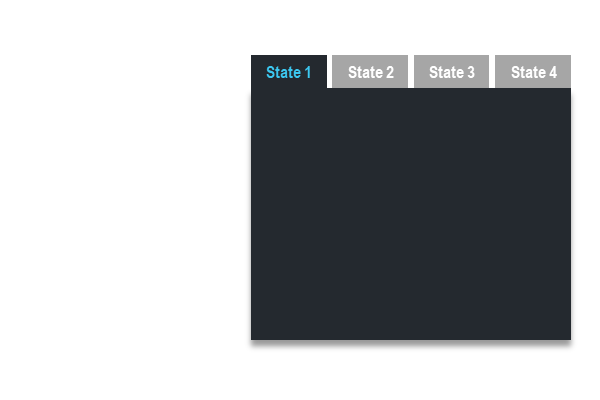
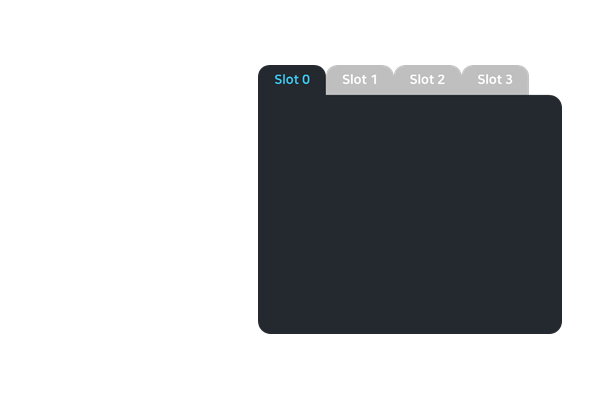
Fix

Changed region(s): [[0.39, 0.12, 0.96, 0.87]]

diff --git a/experimental/PauseMenu.py b/experimental/PauseMenu.py
@@ -45,6 +45,7 @@ PAUSE_MODE_ON = False
 
 CONTROL_VIEW = False
 MENU_INDEX = 0
+STATE_INDEX = 0
 LAYOUT_INDEX = 0
 
 event_format = 'IhBB'
@@ -507,7 +508,8 @@ def draw_picture(system, buttons):
 def start_viewer():
     if CONTROL_VIEW == True and os.path.isfile(PATH_PAUSEMENU + "images/" + sysname + "_resume.png") == True :
         os.system("echo " + PATH_PAUSEMENU + "images/" + sysname + "_resume.png > /tmp/pause.txt")
-        os.system("echo " + PATH_PAUSEMENU + "images/control/" + romname + "_layout0.png > /tmp/pause_layout.txt")
+        if os.path.isfile(PATH_PAUSEMENU + "images/control/" + romname + "_layout0.png") == True :
+            os.system("echo " + PATH_PAUSEMENU + "images/control/" + romname + "_layout0.png > /tmp/pause_layout.txt")
     else:
         os.system("echo " + PATH_PAUSEMENU + "pause_resume.png > /tmp/pause.txt")
 
@@ -548,7 +550,8 @@ def change_viewer(menu, index):
                 state_index = ".state"
             else:
                 state_index = ".state" + index
-            os.system("echo " + PATH_PAUSEMENU + "images/save/" + romname + state_index + ".png > /tmp/pause_layout.txt")
+            if os.path.isfile(PATH_PAUSEMENU + "images/save/" + romname + state_index + ".png") == True :
+                os.system("echo " + PATH_PAUSEMENU + "images/save/" + romname + state_index + ".png > /tmp/pause_layout.txt")
         else:
             os.system("echo " + PATH_PAUSEMENU + "pause_save.png > /tmp/pause.txt")
     elif menu == "LOAD":
@@ -559,6 +562,8 @@ def change_viewer(menu, index):
     elif menu == "BUTTON":
         if CONTROL_VIEW == True and os.path.isfile(PATH_PAUSEMENU + "images/" + sysname + "_button.png") == True :
             os.system("echo " + PATH_PAUSEMENU + "images/" + sysname + "_button.png > /tmp/pause.txt")
+            if os.path.isfile(PATH_PAUSEMENU + "images/control/" + romname + "_layout" + index + ".png") == True :
+                os.system("echo " + PATH_PAUSEMENU + "images/control/" + romname + "_layout" + index + ".png > /tmp/pause_layout.txt")
         else:
             os.system("echo " + PATH_PAUSEMENU + "pause_button.png > /tmp/pause.txt")
         
@@ -635,6 +640,7 @@ def send_hotkey(key, repeat):
         time.sleep(0.1)
     
     keyboard.release("1")
+    time.sleep(0.1)
     
 def save_picture(index):
     time.sleep(1)
@@ -642,7 +648,7 @@ def save_picture(index):
         pngname = "state.png"
     else:
         pngname = "state" + str(index) + "png"
-    cmd = "composite -geometry 304x224+260+95 " + \
+    cmd = "composite -geometry 260x195+282+109 " + \
           "/home/pi/RetroPie/roms/" + sysname + "/" + romname + "." + pngname + " " + \
           PATH_PAUSEMENU + "images/save/" + pngname + " " + \
           PATH_PAUSEMENU + "images/save/" + romname + "." + pngname 
@@ -650,18 +656,19 @@ def save_picture(index):
 
     now = datetime.datetime.now()
     nowDatetime = now.strftime('%Y-%m-%d %H:%M:%S')
-    font_size = 10
+    font_size = 16
     font = ImageFont.truetype('NanumBarunGothic.ttf', font_size)
-    image = Image.new('RGBA', (300, 20), (0, 0, 0, 0))
+    image = Image.new('RGBA', (256, 20), (0, 0, 0, 0))
     draw = ImageDraw.Draw(image)
+    w, h = draw.textsize(msg)
     draw.fontmode = "1"
-    draw.text((0,0), unicode(text), font=font, fill="white")
+    draw.text(((256-w)/2,(20-h)/2, unicode(text), font=font, fill="white")
     image.save(outfile)
     
 def process_event(event):
 
     global SELECT_BTN_ON, START_BTN_ON, PAUSE_MODE_ON
-    global UP_ON, DOWN_ON, MENU_INDEX, LAYOUT_INDEX
+    global UP_ON, DOWN_ON, MENU_INDEX, STATE_INDEX, LAYOUT_INDEX
     
     (js_time, js_value, js_type, js_number) = struct.unpack(event_format, event)
 
@@ -675,28 +682,32 @@ def process_event(event):
             DOWN_ON = False
             if js_value <= JS_MIN * JS_THRESH:
                 if PAUSE_MODE_ON == True:
-                    if MENU_INDEX == 1 or MENU_INDEX == 2:
-                        MENU_INDEX = 3
-                        LAYOUT_INDEX = 1
-                        change_viewer("RETURN", "0")
-                    else:
-                        if LAYOUT_INDEX == 1:
-                            LAYOUT_INDEX = layout_num
-                        else:
+                    if MENU_INDEX == 3:
+                        if STATE_INDEX > 0:
+                            STATE_INDEX = STATE_INDEX-1
+                            change_viewer("SAVE", str(LAYOUT_INDEX))
+                    if MENU_INDEX == 4:
+                        if STATE_INDEX > 0:
+                            STATE_INDEX = STATE_INDEX-1
+                            change_viewer("LOAD", str(LAYOUT_INDEX))
+                    if MENU_INDEX == 5:
+                        if LAYOUT_INDEX > 1:
                             LAYOUT_INDEX = LAYOUT_INDEX-1
-                    change_viewer("LAYOUT", str(LAYOUT_INDEX))
+                            change_viewer("BUTTON", str(LAYOUT_INDEX))
             if js_value >= JS_MAX * JS_THRESH:
                 if PAUSE_MODE_ON == True:                     
-                    if MENU_INDEX == 1 or MENU_INDEX == 2:
-                        MENU_INDEX = 3
-                        LAYOUT_INDEX = 1
-                        change_viewer("RETURN", "0")
-                    else:
-                        if LAYOUT_INDEX == layout_num:
-                            LAYOUT_INDEX = 1
-                        else:
+                    if MENU_INDEX == 3:
+                        if STATE_INDEX < 3:
+                            STATE_INDEX = STATE_INDEX+1
+                            change_viewer("SAVE", str(LAYOUT_INDEX))
+                    if MENU_INDEX == 4:
+                        if STATE_INDEX < 3:
+                            STATE_INDEX = STATE_INDEX+1
+                            change_viewer("LOAD", str(LAYOUT_INDEX))
+                    if MENU_INDEX == 5:
+                        if LAYOUT_INDEX < layout_num:
                             LAYOUT_INDEX = LAYOUT_INDEX+1
-                    change_viewer("LAYOUT", str(LAYOUT_INDEX))
+                            change_viewer("BUTTON", str(LAYOUT_INDEX))
         elif js_number % 2 == 1:
             if js_value <= JS_MIN * JS_THRESH:
                 UP_ON = True
@@ -713,9 +724,11 @@ def process_event(event):
                         change_viewer("RESET", "0")
                     elif MENU_INDEX == 5:
                         MENU_INDEX = 4
+                        STATE_INDEX = 0
                         change_viewer("SAVE", "0")
                     elif MENU_INDEX == 6:
                         MENU_INDEX = 5
+                        STATE_INDEX = 0
                         change_viewer("LOAD", "0")
                 elif SELECT_BTN_ON == True:
                     #print "OSD mode on"
@@ -725,20 +738,23 @@ def process_event(event):
                 UP_ON = False
                 if PAUSE_MODE_ON == True:
                     if MENU_INDEX == 1:
-                        change_viewer("STOP", "0")
                         MENU_INDEX = 2
+                        change_viewer("STOP", "0")
                     elif MENU_INDEX == 2:
-                        change_viewer("RESET", "0")
                         MENU_INDEX = 3
+                        change_viewer("RESET", "0")
                     elif MENU_INDEX == 3:
-                        change_viewer("SAVE", "0")
                         MENU_INDEX = 4
+                        STATE_INDEX = 0
+                        change_viewer("SAVE", "0")
                     elif MENU_INDEX == 4:
-                        change_viewer("LOAD", "0")
                         MENU_INDEX = 5
+                        STATE_INDEX = 0
+                        change_viewer("LOAD", "0")
                     elif MENU_INDEX == 5:
-                        change_viewer("BUTTON", "0")
                         MENU_INDEX = 6
+                        LAYOUT_INDEX = 1
+                        change_viewer("BUTTON", "1")
                 elif SELECT_BTN_ON == True:
                     #print "OSD mode off"
                     stop_viewer()
@@ -772,12 +788,18 @@ def process_event(event):
                         #print "Save"
                         os.system("ps -ef | grep emulators | grep -v grep | awk '{print $2}' | xargs kill -SIGCONT &")
                         stop_viewer()
+                        if STATE_INDEX != 0:
+                            send_hotkey("left", 3)
+                            send_hotkey("right", STATE_INDEX)
                         send_hotkey("f2", 1)
-                        save_picture(0)
+                        save_picture(STATE_INDEX)
                         PAUSE_MODE_ON = False
                     elif MENU_INDEX == 5:
                         #print "Load"
                         os.system("ps -ef | grep emulators | grep -v grep | awk '{print $2}' | xargs kill -SIGCONT &")
+                        if STATE_INDEX != 0:
+                            send_hotkey("left", 3)
+                            send_hotkey("right", STATE_INDEX)
                         send_hotkey("f4", 1)
                         stop_viewer()
                         PAUSE_MODE_ON = False
